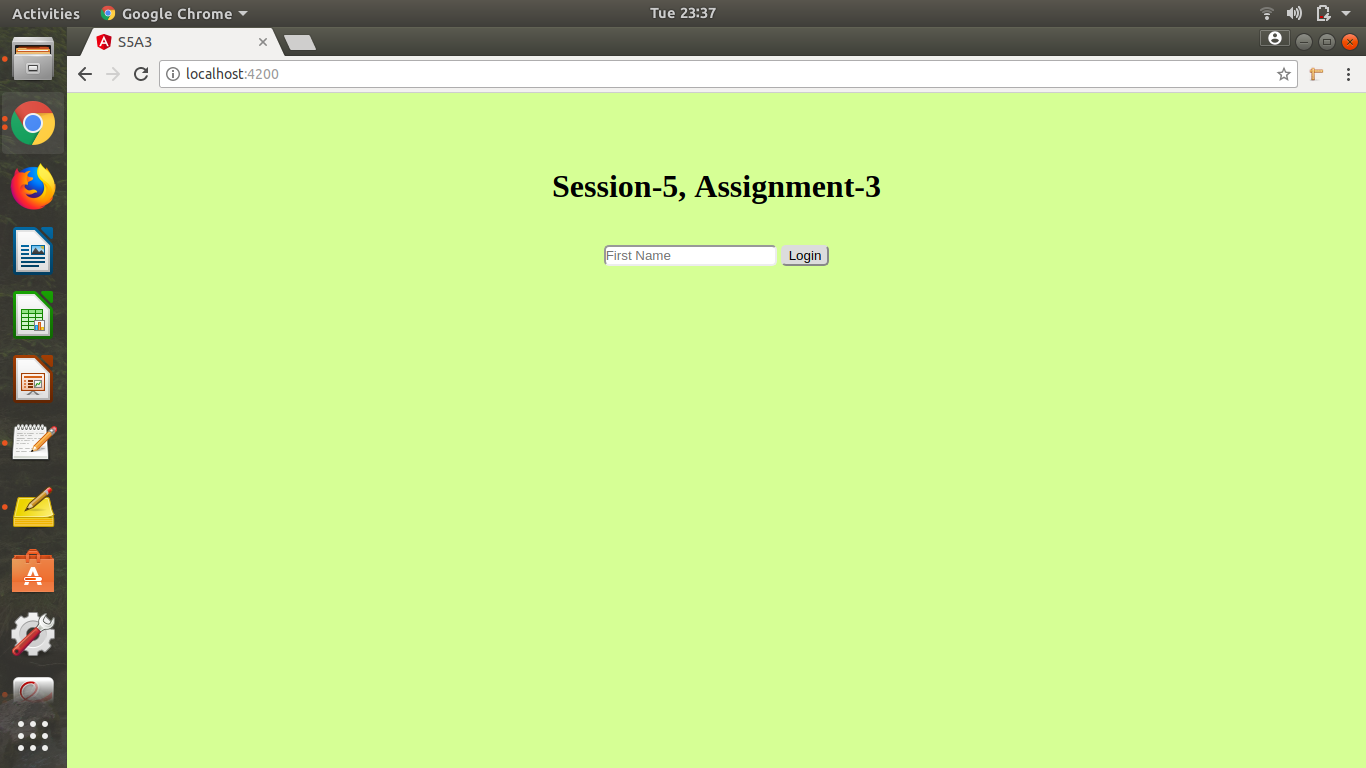
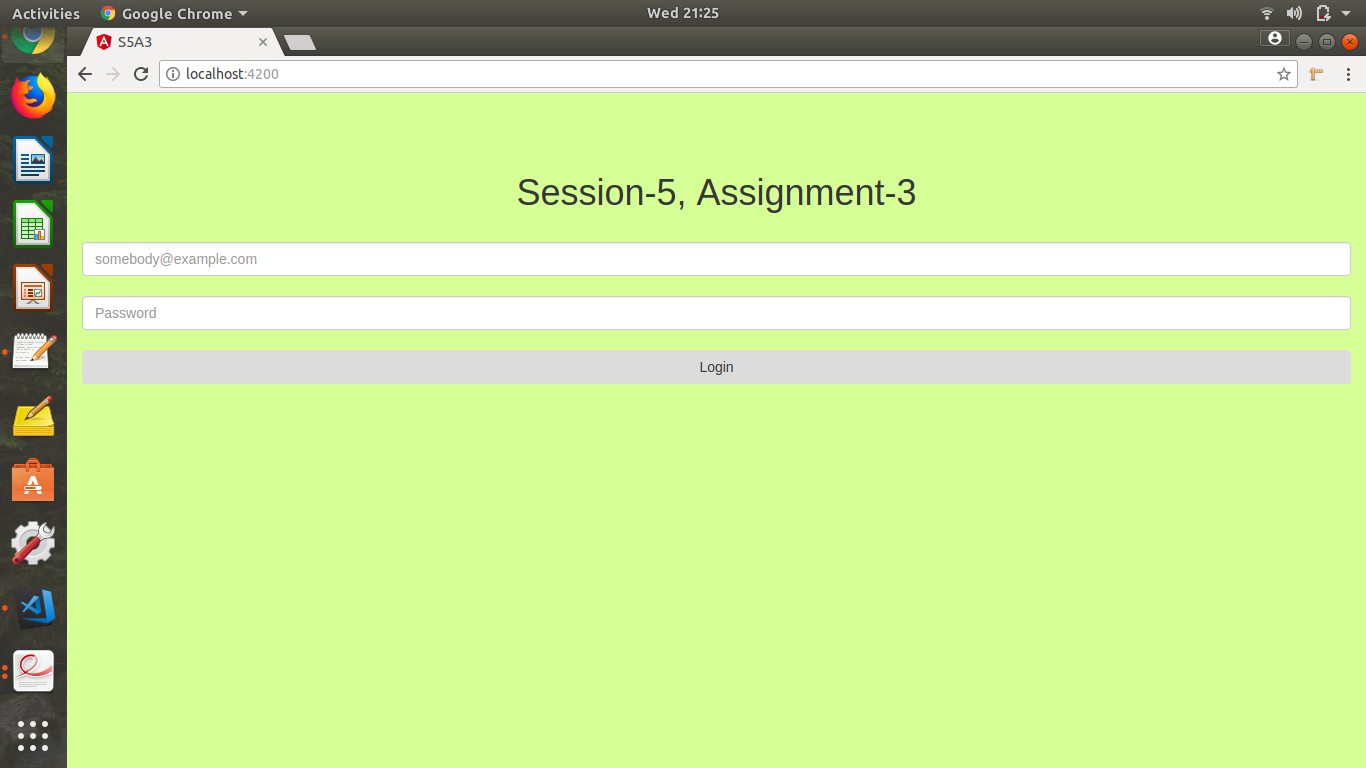
Commit

Changed region(s): [[0.0, 0.0312, 1.0, 0.9375], [0.369, 0.2188, 0.6764, 0.2812], [0.4612, 0.0, 0.5227, 0.0312]]

diff --git a/src/Login/app.login.html b/src/Login/app.login.html
@@ -9,17 +9,20 @@
   <link rel="icon" type="image/x-icon" href="favicon.ico">
 </head>
 <body>
-  <!-- We have included an input text box and button -->
+  <!-- We have included input text boxes and button -->
 
   <!-- Using selector of login component as root -->
     <login-root>
         <div id="login">
           <br><br><br>
-          <div style="text-align:center">
+          <div style="text-align:center" class="form-group col-md-12">
             <h1>Session-5, Assignment-3</h1>
             <br>
-            <input type="text" placeholder="First Name">
-            <button>Login</button> 
+            <input type="text" class="form-control" placeholder="somebody@example.com">
+            <br>
+            <input type="password" class="form-control" placeholder="Password">
+            <br>
+            <button class="btn btn-block">Login</button> 
           </div>
         </div>
     </login-root>

diff --git a/src/Login/app.login.css b/src/Login/app.login.css
@@ -5,8 +5,3 @@ html, body{
     padding: 0;
     background: rgb(225, 240, 157);
 }
-
-/* Giving a rounded border to the text box and button */
-input, button{
-    border-radius: 5px;
-}
